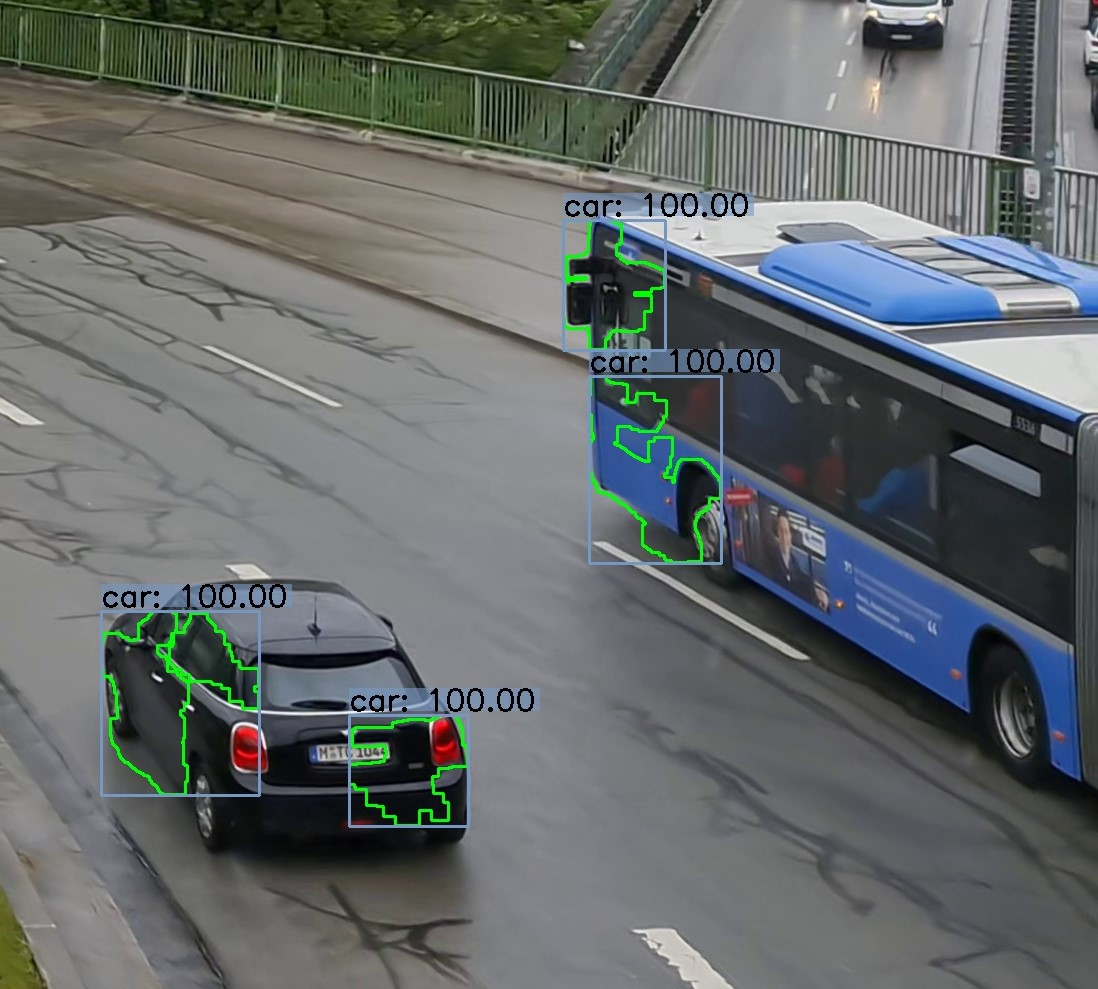
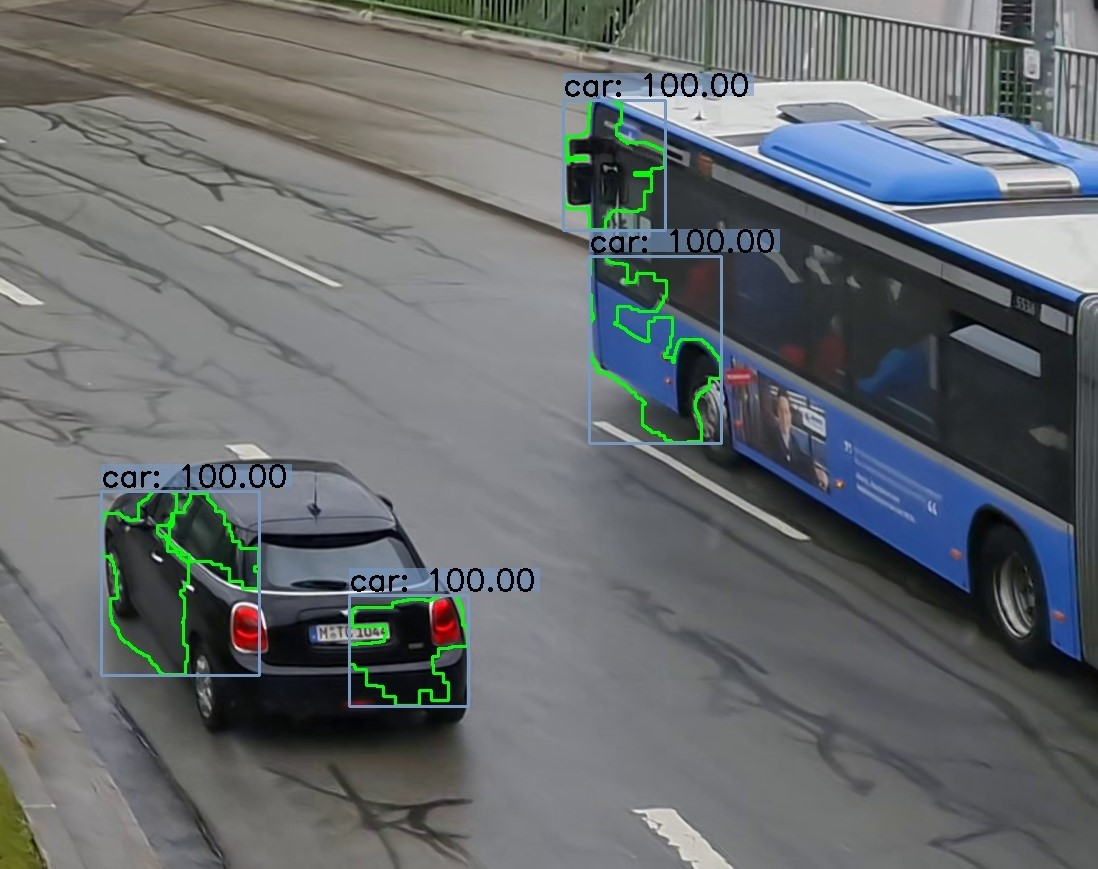
Fehleranalyse MOG ausgeweitet

diff --git a/Latex/VAOT.tex b/Latex/VAOT.tex
@@ -211,10 +211,11 @@
 	Vereinfacht beschrieben misst der Algorithmus in den Lernbildern die Zeit, in welcher ein Pixel den gleichen Intensitätswert hat und bestimmt so den Hintergrund. Ändert sich der Wert, wird an dem Pixel eine Bewegung erkannt. Dieser wird als Vordergrund bestimmt und die Parameter aktualisiert.\\
 	\\
 	\subsection{Fehler in der Erkennung}
-	Eine Schwierigkeit bei der Objekterkennung ist, dass die Bewegungen hauptsächlich bei großen Intensitätsunterschieden wie der Wechsel von Straße zu Fahrzeuganfang und von Fahrzeugende zur Straße, erkannt werden. Große Flächen wie die Motorhaube, Windschutzscheibe und die Dachfläche werden nicht erkannt, da diese so lange einen Pixel mit einem sehr ähnlichen Intensitätswert „bedecken“, dass dieser zwischendurch als Hintergrund festgelegt wird. Dabei kann es passieren, dass je nach Thresholdgröße mehrere Objekte in einem Fahrzeug erkannt werden. Dieses Verhalten zeigt sich in Abbildung \ref{mogFehler1}, \ref{mogFehler2} und \ref{mogFehler3}. Ein weiteres Problem ist es, wenn neben den Objekten markante Kanten liegen. Diese Kanten sorgen zum Beispiel dafür, dass der Bus in der Grafik \ref{mogFehler2} und \ref{mogFehler3} zweigeteilt wird. Der Grund hierfür dürfte die Bordsteinkante und der Asphaltflick auf dem Radweg sein. All diese Probleme führen dazu, dass der Bus, der in den Abbildungen \ref{mogFehler2} und \ref{mogFehler4} zu sehen ist, insgesamt dreimal erkannt wird. %TODO
+	Eine Schwierigkeit bei der Objekterkennung ist, dass die Bewegungen hauptsächlich bei großen Intensitätsunterschieden wie der Wechsel von Straße zu Fahrzeuganfang und von Fahrzeugende zur Straße, erkannt werden. Große Flächen wie die Motorhaube, Windschutzscheibe und die Dachfläche werden nicht erkannt, da diese so lange einen Pixel mit einem sehr ähnlichen Intensitätswert „bedecken“, dass dieser zwischendurch als Hintergrund festgelegt wird. Dabei kann es passieren, dass je nach Thresholdgröße mehrere Objekte in einem Fahrzeug erkannt werden. Dieses Verhalten zeigt sich in Abbildung \ref{mogFehler1}, \ref{mogFehler2} und \ref{mogFehler3}.
+	Ein weiteres Problem ist es, wenn neben den Objekten markante Kanten liegen. Diese Kanten sorgen zum Beispiel dafür, dass der Bus in der Grafik \ref{mogFehler2} und \ref{mogFehler3} zweigeteilt wird. Der Grund hierfür dürfte die Bordsteinkante und der Asphaltflick auf dem Radweg sein. All diese Probleme führen dazu, dass der Bus, der in den Abbildungen \ref{mogFehler2} und \ref{mogFehler4} zu sehen ist, insgesamt dreimal erkannt wird.\\
 	\begin{figure}[!h]
 		\begin{center}
-			\includegraphics[width=9cm]{Media/MOGVergleich.png}
+			\includegraphics[width=8cm]{Media/MOGVergleich.png}
 			\caption{Schwierigkeiten bei der Objekterkennung}
 			\label{mogFehler1}
 		\end{center}
@@ -234,13 +235,31 @@
 		\end{center}
 	\end{figure}
 	\begin{figure}[!h]
-	\begin{center}
-		\includegraphics[width=8cm]{Media/Output_847MOG2.jpg}
-		\caption{Schwierigkeiten bei der Objekterkennung}
-		\label{mogFehler4}
-	\end{center}
-\end{figure}
-	
+		\begin{center}
+			\includegraphics[width=8cm]{Media/Output_847MOG2.jpg}
+			\caption{Schwierigkeiten bei der Objekterkennung}
+			\label{mogFehler4}
+		\end{center}
+	\end{figure}\\
+	Um diese Probleme zu lösen, steigern wir den Einfluss der Dilatation. Damit werden die Flächen, die als Basis der Erkennung dienen verbunden. Dies resultiert in einer verbesserten Erkennung, wie gut in den Abbildungen \ref{mogFehler5} und \ref{mogFehler6} zu sehen ist.
+	Das ein Bus zwei mal erkannt wird wurde damit nicht gelöst.\\
+	\begin{figure}[!h]
+		\begin{center}
+			\includegraphics[width=8cm]{Media/Output_733-MOGV2Cut.jpg}
+			\caption{Optimierung der Parameter verbessert die Ergebnisse}
+			\label{mogFehler5}
+		\end{center}
+	\end{figure}
+	\begin{figure}[!h]
+		\begin{center}
+			\includegraphics[width=8cm]{Media/Output_847-MOGV2Cut}
+			\caption{Optimierung der Parameter verbessert die Ergebnisse}
+			\label{mogFehler6}
+		\end{center}
+	\end{figure}
+
+	\newpage
+
 	\section{Objekterkennung: YOLOv4}
 	YOLO \cite{b1} ist ein Neuronal Netz für die Echtzeit-Objekterkennung. In diesem Projekt wurde die vierte und damit aktuellste Version von YOLO \cite{b2} verwendet. So bietet jede Version inkrementelle Verbesserung zum jeweiligen Vorgänger. In dem folgenden Abschnitt werden die wichtigsten Punkte aller Versionen erläutert.\\
 	YOLO ist die Abkürzung für 'You Only Look Once' was übersetzt 'Man sieht nur einmal hin' heißt. Die Aufgabe der Objekterkennung besteht darin, den Ort und die Größe der Bounding Box im Bild zu bestimmen, sowie die Objekte zu klassifizieren. Frühere Methoden, wie R-CNN \cite{rcnn} und seine Variationen, verwendeten eine Pipeline, um diese Aufgabe in mehreren Schritten durchzuführen. Dies ist in der Ausführung langsam und aufwendiger zu trainieren, da jede einzelne Komponente separat trainiert werden muss. YOLO, erledigt beide Aufgaben mit einem einzigen Convolutional Neural Network. Es betrachtet dabei die Objekterkennung als ein Regressionsproblem auf räumlich getrennte Bounding Boxen und zugehörige Klassenwahrscheinlichkeiten.\\
